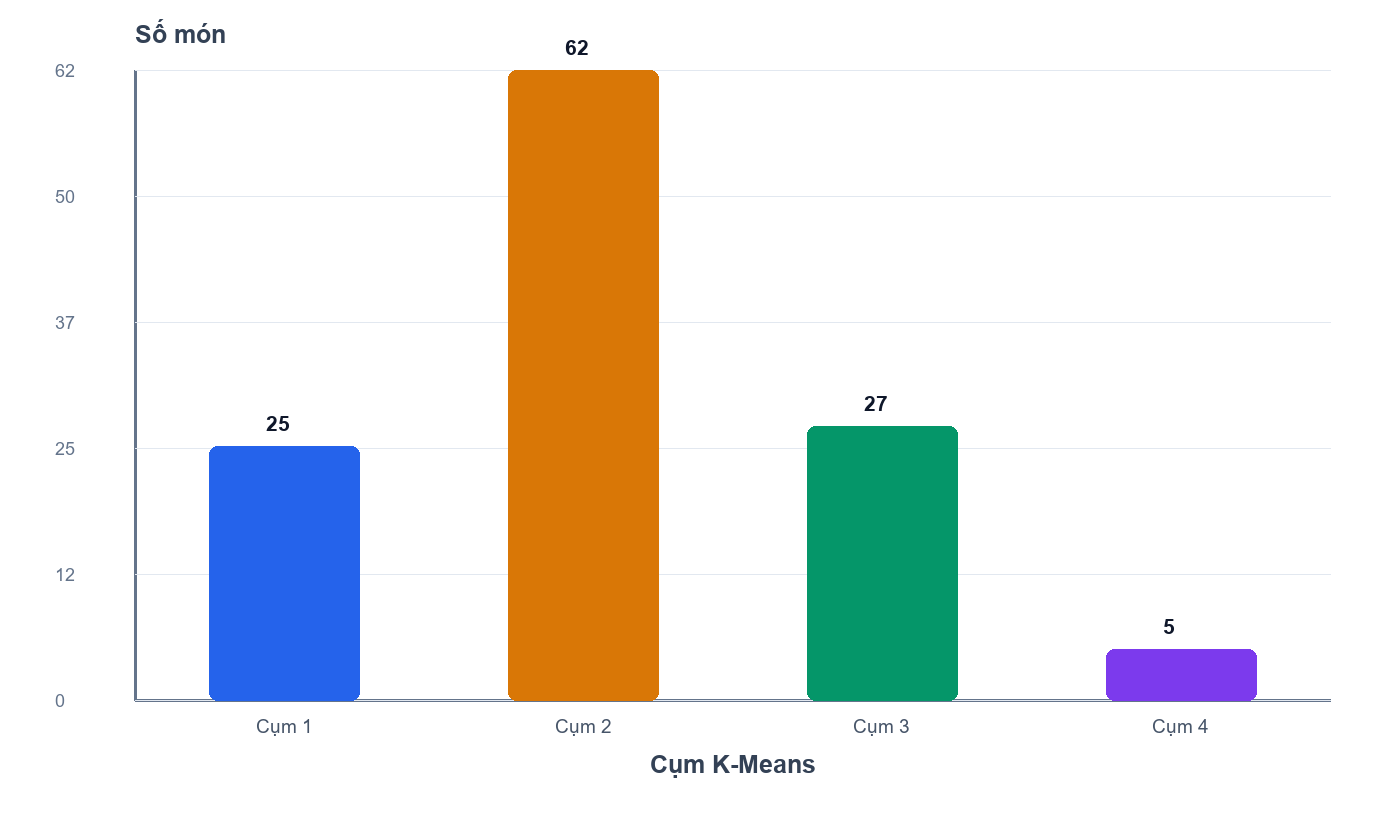
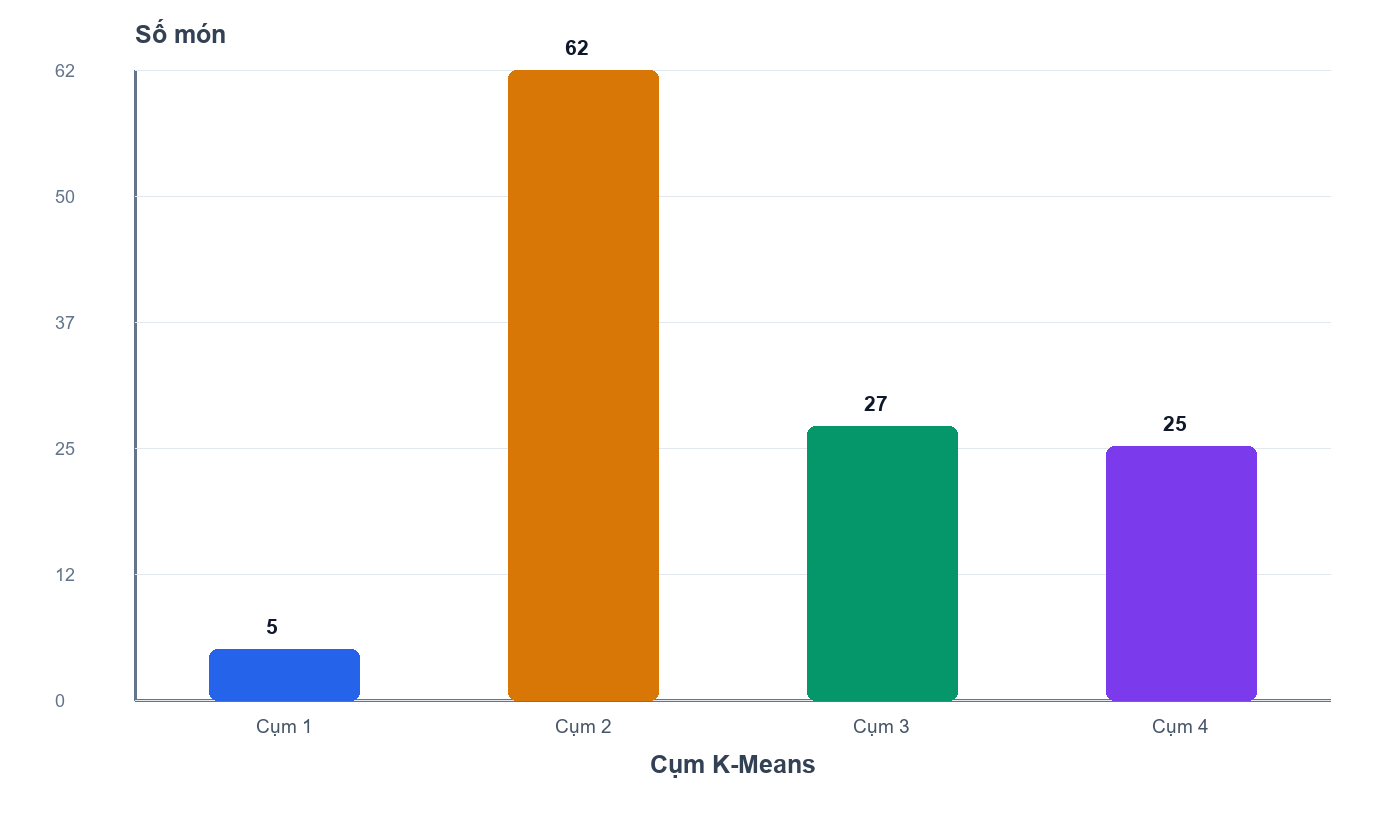
Correct K-Means chart semantics

Changed region(s): [[0.7679, 0.4878, 0.9214, 0.7927], [0.1229, 0.4878, 0.2764, 0.7927]]

diff --git a/backend/scripts/generate_data_report_assets.py b/backend/scripts/generate_data_report_assets.py
@@ -26,8 +26,8 @@ PRICE_LABELS = {
 }
 
 CHART_TITLES = {
-    "01_kmeans_convergence.png": "Độ hội tụ của K-Means",
-    "02_kmeans_price_calories.png": "Phân bố món theo giá và calories",
+    "01_kmeans_convergence.png": "Mức giảm WCSS qua các bước cập nhật tâm cụm",
+    "02_kmeans_price_calories.png": "Hình chiếu cụm K-Means theo giá và calories",
     "03_kmeans_cluster_sizes.png": "Số lượng món trong từng cụm",
     "04_similarity_score_histogram.png": "Phân bố điểm tương đồng",
 }
@@ -79,7 +79,7 @@ def save_convergence_chart(history: list[float]) -> None:
     if not history:
         return
     image, draw = chart_canvas()
-    left, top, right, bottom = draw_axes(draw, "Vòng lặp", "WCSS")
+    left, top, right, bottom = draw_axes(draw, "Bước cập nhật tâm cụm", "WCSS")
     values = [float(value) for value in history]
     low, high = min(values), max(values)
     span = max(high - low, 1)
@@ -97,7 +97,7 @@ def save_convergence_chart(history: list[float]) -> None:
         draw.line(points, fill=CHART_COLORS[0], width=5, joint="curve")
     for index, (x, y) in enumerate(points):
         draw.ellipse((x - 7, y - 7, x + 7, y + 7), fill=CHART_COLORS[0])
-        draw.text((x - 5, bottom + 15), str(index + 1), fill="#64748B", font=chart_font(18))
+        draw.text((x - 5, bottom + 15), str(index), fill="#64748B", font=chart_font(18))
     image.save(CHART_DIR / "01_kmeans_convergence.png")
 
 
@@ -210,10 +210,19 @@ def generate_png_charts(
 ) -> list[dict[str, str]]:
     save_convergence_chart(report.get("kmeans", {}).get("convergence_history", []))
     save_cluster_scatter(dishes)
+    cluster_rows = sorted(
+        report.get("kmeans", {}).get("clusters", []),
+        key=lambda row: int(row.get("cluster_id", 0)),
+    )
+    cluster_labels = [f"Cụm {int(row.get('cluster_id', 0)) + 1}" for row in cluster_rows]
+    cluster_sizes = [float(row.get("size", 0)) for row in cluster_rows]
+    if not cluster_rows:
+        cluster_labels = [label.split(" - ", 1)[0] for label in cluster_counts]
+        cluster_sizes = [float(cluster_counts[label]) for label in cluster_counts]
     save_bar_chart(
         "03_kmeans_cluster_sizes.png",
-        [f"Cụm {index + 1}" for index, _ in enumerate(cluster_counts)],
-        [float(value) for value in cluster_counts.values()],
+        cluster_labels,
+        cluster_sizes,
         "Cụm K-Means",
         "Số món",
     )

diff --git a/backend/app/services/data_pipeline_service.py b/backend/app/services/data_pipeline_service.py
@@ -18,8 +18,8 @@ REPORT_PATH = PROCESSED_DIR / "advanced_mining_report.json"
 STATS_PATH = PROCESSED_DIR / "report_assets" / "data_statistics_report.json"
 CHART_DIR = PROCESSED_DIR / "report_assets" / "charts"
 CHART_TITLES = {
-    "01_kmeans_convergence.png": "Độ hội tụ của K-Means",
-    "02_kmeans_price_calories.png": "Phân bố món theo giá và calories",
+    "01_kmeans_convergence.png": "Mức giảm WCSS qua các bước cập nhật tâm cụm",
+    "02_kmeans_price_calories.png": "Hình chiếu cụm K-Means theo giá và calories",
     "03_kmeans_cluster_sizes.png": "Số lượng món trong từng cụm",
     "04_similarity_score_histogram.png": "Phân bố điểm tương đồng",
 }
